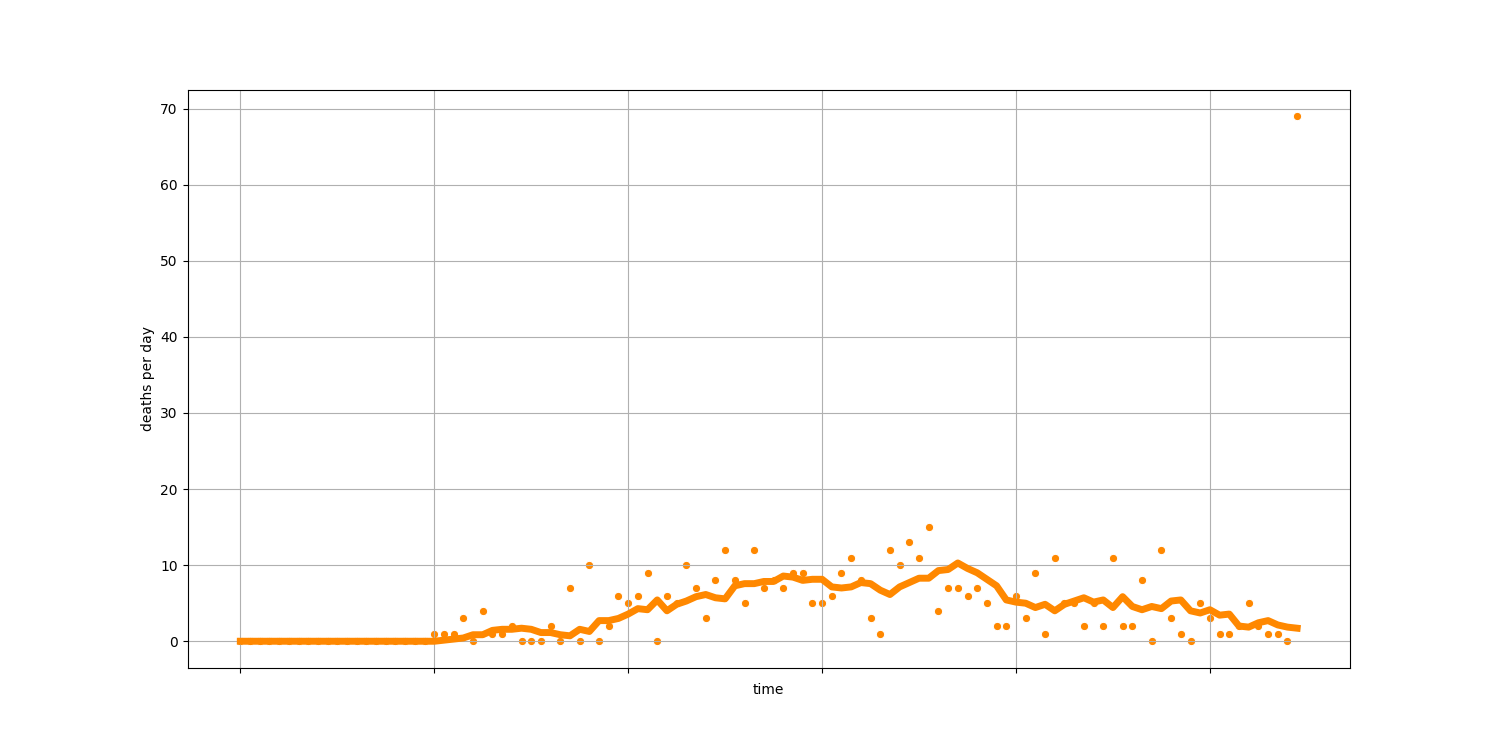
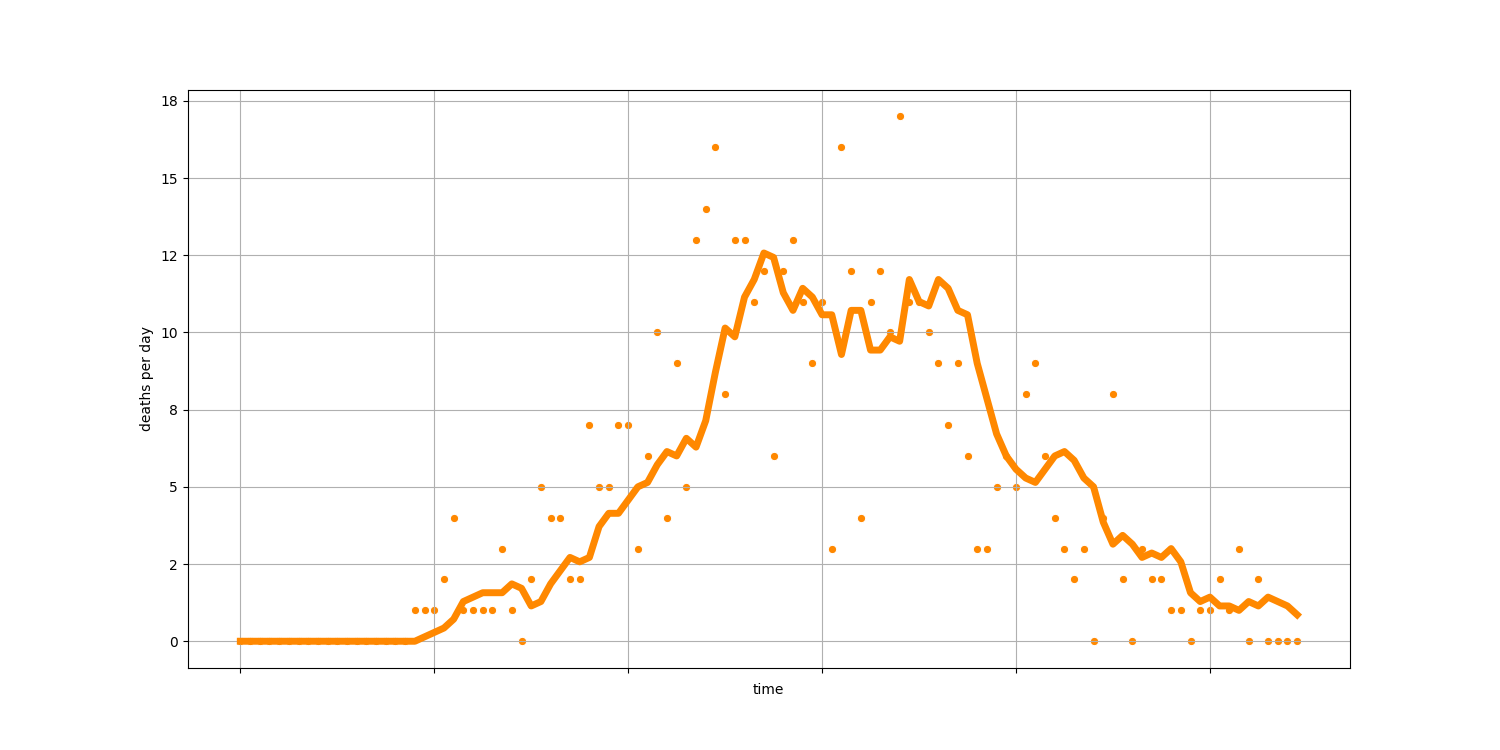
regular update

diff --git a/docs/table.html b/docs/table.html
@@ -93,7 +93,7 @@
     <script type="text/javascript">
       window.addEventListener('DOMContentLoaded', () => {
 
-        const data = [{'state': 'Alabama', 'avg_cases_per_day': '122', 'avg_deaths_per_day': '2', 'avg_positive_test_rate': '8.75%'}, {'state': 'Alaska', 'avg_cases_per_day': '19', 'avg_deaths_per_day': '0', 'avg_positive_test_rate': '0.87%'}, {'state': 'American Samoa', 'avg_cases_per_day': '0', 'avg_deaths_per_day': '0', 'avg_positive_test_rate': '0.0%'}, {'state': 'Arizona', 'avg_cases_per_day': '351', 'avg_deaths_per_day': '3', 'avg_positive_test_rate': '11.86%'}, {'state': 'Arkansas', 'avg_cases_per_day': '150', 'avg_deaths_per_day': '2', 'avg_positive_test_rate': '6.24%'}, {'state': 'California', 'avg_cases_per_day': '96', 'avg_deaths_per_day': '2', 'avg_positive_test_rate': '5.23%'}, {'state': 'Colorado', 'avg_cases_per_day': '35', 'avg_deaths_per_day': '1', 'avg_positive_test_rate': '11.2%'}, {'state': 'Connecticut', 'avg_cases_per_day': '22', 'avg_deaths_per_day': '2', 'avg_positive_test_rate': '11.98%'}, {'state': 'Delaware', 'avg_cases_per_day': '70', 'avg_deaths_per_day': '2', 'avg_positive_test_rate': '11.69%'}, {'state': 'District of Columbia', 'avg_cases_per_day': '52', 'avg_deaths_per_day': '4', 'avg_positive_test_rate': '13.36%'}, {'state': 'Florida', 'avg_cases_per_day': '152', 'avg_deaths_per_day': '2', 'avg_positive_test_rate': '5.84%'}, {'state': 'Georgia', 'avg_cases_per_day': '101', 'avg_deaths_per_day': '2', 'avg_positive_test_rate': '9.25%'}, {'state': 'Guam', 'avg_cases_per_day': '34', 'avg_deaths_per_day': '0', 'avg_positive_test_rate': '2.11%'}, {'state': 'Hawaii', 'avg_cases_per_day': '9', 'avg_deaths_per_day': '0', 'avg_positive_test_rate': '1.17%'}, {'state': 'Idaho', 'avg_cases_per_day': '48', 'avg_deaths_per_day': '0', 'avg_positive_test_rate': '5.39%'}, {'state': 'Illinois', 'avg_cases_per_day': '49', 'avg_deaths_per_day': '4', 'avg_positive_test_rate': '10.43%'}, {'state': 'Indiana', 'avg_cases_per_day': '47', 'avg_deaths_per_day': '3', 'avg_positive_test_rate': '10.66%'}, {'state': 'Iowa', 'avg_cases_per_day': '90', 'avg_deaths_per_day': '1', 'avg_positive_test_rate': '10.26%'}, {'state': 'Kansas', 'avg_cases_per_day': '51', 'avg_deaths_per_day': '1', 'avg_positive_test_rate': '8.19%'}, {'state': 'Kentucky', 'avg_cases_per_day': '38', 'avg_deaths_per_day': '1', 'avg_positive_test_rate': '4.32%'}, {'state': 'Louisiana', 'avg_cases_per_day': '94', 'avg_deaths_per_day': '3', 'avg_positive_test_rate': '8.49%'}, {'state': 'Maine', 'avg_cases_per_day': '17', 'avg_deaths_per_day': '0', 'avg_positive_test_rate': '3.77%'}, {'state': 'Maryland', 'avg_cases_per_day': '61', 'avg_deaths_per_day': '3', 'avg_positive_test_rate': '14.01%'}, {'state': 'Massachusetts', 'avg_cases_per_day': '31', 'avg_deaths_per_day': '5', 'avg_positive_test_rate': '14.18%'}, {'state': 'Michigan', 'avg_cases_per_day': '27', 'avg_deaths_per_day': '1', 'avg_positive_test_rate': '7.66%'}, {'state': 'Minnesota', 'avg_cases_per_day': '64', 'avg_deaths_per_day': '2', 'avg_positive_test_rate': '6.77%'}, {'state': 'Mississippi', 'avg_cases_per_day': '119', 'avg_deaths_per_day': '4', 'avg_positive_test_rate': '8.6%'}, {'state': 'Missouri', 'avg_cases_per_day': '45', 'avg_deaths_per_day': '2', 'avg_positive_test_rate': '5.71%'}, {'state': 'Montana', 'avg_cases_per_day': '18', 'avg_deaths_per_day': '0', 'avg_positive_test_rate': '0.99%'}, {'state': 'Nebraska', 'avg_cases_per_day': '80', 'avg_deaths_per_day': '2', 'avg_positive_test_rate': '11.74%'}, {'state': 'Nevada', 'avg_cases_per_day': '105', 'avg_deaths_per_day': '0', 'avg_positive_test_rate': '5.35%'}, {'state': 'New Hampshire', 'avg_cases_per_day': '21', 'avg_deaths_per_day': '2', 'avg_positive_test_rate': '5.26%'}, {'state': 'New Jersey', 'avg_cases_per_day': '37', 'avg_deaths_per_day': '4', 'avg_positive_test_rate': '14.09%'}, {'state': 'New Mexico', 'avg_cases_per_day': '57', 'avg_deaths_per_day': '2', 'avg_positive_test_rate': '3.63%'}, {'state': 'New York', 'avg_cases_per_day': '33', 'avg_deaths_per_day': '1', 'avg_positive_test_rate': '11.9%'}, {'state': 'North Carolina', 'avg_cases_per_day': '116', 'avg_deaths_per_day': '1', 'avg_positive_test_rate': '7.03%'}, {'state': 'North Dakota', 'avg_cases_per_day': '40', 'avg_deaths_per_day': '1', 'avg_positive_test_rate': '3.48%'}, {'state': 'Northern Mariana Islands', 'avg_cases_per_day': '0', 'avg_deaths_per_day': '0', 'avg_positive_test_rate': '0.37%'}, {'state': 'Ohio', 'avg_cases_per_day': '48', 'avg_deaths_per_day': '2', 'avg_positive_test_rate': '7.12%'}, {'state': 'Oklahoma', 'avg_cases_per_day': '84', 'avg_deaths_per_day': '0', 'avg_positive_test_rate': '3.53%'}, {'state': 'Oregon', 'avg_cases_per_day': '49', 'avg_deaths_per_day': '1', 'avg_positive_test_rate': '3.41%'}, {'state': 'Pennsylvania', 'avg_cases_per_day': '34', 'avg_deaths_per_day': '2', 'avg_positive_test_rate': '12.72%'}, {'state': 'Puerto Rico', 'avg_cases_per_day': '30', 'avg_deaths_per_day': '0', 'avg_positive_test_rate': '100.0%'}, {'state': 'Rhode Island', 'avg_cases_per_day': '49', 'avg_deaths_per_day': '7', 'avg_positive_test_rate': '7.69%'}, {'state': 'South Carolina', 'avg_cases_per_day': '175', 'avg_deaths_per_day': '2', 'avg_positive_test_rate': '7.88%'}, {'state': 'South Dakota', 'avg_cases_per_day': '64', 'avg_deaths_per_day': '1', 'avg_positive_test_rate': '8.7%'}, {'state': 'Tennessee', 'avg_cases_per_day': '92', 'avg_deaths_per_day': '1', 'avg_positive_test_rate': '5.06%'}, {'state': 'Texas', 'avg_cases_per_day': '127', 'avg_deaths_per_day': '1', 'avg_positive_test_rate': '7.2%'}, {'state': 'U.S. Virgin Islands', 'avg_cases_per_day': '4', 'avg_deaths_per_day': '0', 'avg_positive_test_rate': '2.97%'}, {'state': 'Utah', 'avg_cases_per_day': '147', 'avg_deaths_per_day': '1', 'avg_positive_test_rate': '5.71%'}, {'state': 'Vermont', 'avg_cases_per_day': '8', 'avg_deaths_per_day': '0', 'avg_positive_test_rate': '2.05%'}, {'state': 'Virginia', 'avg_cases_per_day': '60', 'avg_deaths_per_day': '1', 'avg_positive_test_rate': '10.98%'}, {'state': 'Washington', 'avg_cases_per_day': '22', 'avg_deaths_per_day': '1', 'avg_positive_test_rate': '6.07%'}, {'state': 'West Virginia', 'avg_cases_per_day': '20', 'avg_deaths_per_day': '0', 'avg_positive_test_rate': '1.68%'}, {'state': 'Wisconsin', 'avg_cases_per_day': '52', 'avg_deaths_per_day': '1', 'avg_positive_test_rate': '5.18%'}, {'state': 'Wyoming', 'avg_cases_per_day': '42', 'avg_deaths_per_day': '0', 'avg_positive_test_rate': '3.7%'}];
+        const data = [{'state': 'Alabama', 'avg_cases_per_day': '122', 'avg_deaths_per_day': '2', 'avg_positive_test_rate': '8.75%'}, {'state': 'Alaska', 'avg_cases_per_day': '19', 'avg_deaths_per_day': '0', 'avg_positive_test_rate': '0.87%'}, {'state': 'American Samoa', 'avg_cases_per_day': '0', 'avg_deaths_per_day': '0', 'avg_positive_test_rate': '0.0%'}, {'state': 'Arizona', 'avg_cases_per_day': '351', 'avg_deaths_per_day': '3', 'avg_positive_test_rate': '11.86%'}, {'state': 'Arkansas', 'avg_cases_per_day': '150', 'avg_deaths_per_day': '2', 'avg_positive_test_rate': '6.24%'}, {'state': 'California', 'avg_cases_per_day': '96', 'avg_deaths_per_day': '2', 'avg_positive_test_rate': '5.23%'}, {'state': 'Colorado', 'avg_cases_per_day': '35', 'avg_deaths_per_day': '1', 'avg_positive_test_rate': '11.2%'}, {'state': 'Connecticut', 'avg_cases_per_day': '22', 'avg_deaths_per_day': '2', 'avg_positive_test_rate': '11.98%'}, {'state': 'Delaware', 'avg_cases_per_day': '70', 'avg_deaths_per_day': '1', 'avg_positive_test_rate': '11.69%'}, {'state': 'District of Columbia', 'avg_cases_per_day': '52', 'avg_deaths_per_day': '4', 'avg_positive_test_rate': '13.36%'}, {'state': 'Florida', 'avg_cases_per_day': '152', 'avg_deaths_per_day': '2', 'avg_positive_test_rate': '5.84%'}, {'state': 'Georgia', 'avg_cases_per_day': '101', 'avg_deaths_per_day': '2', 'avg_positive_test_rate': '9.25%'}, {'state': 'Guam', 'avg_cases_per_day': '34', 'avg_deaths_per_day': '0', 'avg_positive_test_rate': '2.11%'}, {'state': 'Hawaii', 'avg_cases_per_day': '9', 'avg_deaths_per_day': '0', 'avg_positive_test_rate': '1.17%'}, {'state': 'Idaho', 'avg_cases_per_day': '48', 'avg_deaths_per_day': '0', 'avg_positive_test_rate': '5.39%'}, {'state': 'Illinois', 'avg_cases_per_day': '49', 'avg_deaths_per_day': '4', 'avg_positive_test_rate': '10.43%'}, {'state': 'Indiana', 'avg_cases_per_day': '47', 'avg_deaths_per_day': '3', 'avg_positive_test_rate': '10.66%'}, {'state': 'Iowa', 'avg_cases_per_day': '90', 'avg_deaths_per_day': '1', 'avg_positive_test_rate': '10.26%'}, {'state': 'Kansas', 'avg_cases_per_day': '51', 'avg_deaths_per_day': '1', 'avg_positive_test_rate': '8.19%'}, {'state': 'Kentucky', 'avg_cases_per_day': '38', 'avg_deaths_per_day': '1', 'avg_positive_test_rate': '4.32%'}, {'state': 'Louisiana', 'avg_cases_per_day': '94', 'avg_deaths_per_day': '3', 'avg_positive_test_rate': '8.49%'}, {'state': 'Maine', 'avg_cases_per_day': '17', 'avg_deaths_per_day': '0', 'avg_positive_test_rate': '3.77%'}, {'state': 'Maryland', 'avg_cases_per_day': '61', 'avg_deaths_per_day': '3', 'avg_positive_test_rate': '14.01%'}, {'state': 'Massachusetts', 'avg_cases_per_day': '31', 'avg_deaths_per_day': '5', 'avg_positive_test_rate': '14.18%'}, {'state': 'Michigan', 'avg_cases_per_day': '27', 'avg_deaths_per_day': '1', 'avg_positive_test_rate': '7.66%'}, {'state': 'Minnesota', 'avg_cases_per_day': '64', 'avg_deaths_per_day': '2', 'avg_positive_test_rate': '6.77%'}, {'state': 'Mississippi', 'avg_cases_per_day': '119', 'avg_deaths_per_day': '4', 'avg_positive_test_rate': '8.6%'}, {'state': 'Missouri', 'avg_cases_per_day': '45', 'avg_deaths_per_day': '2', 'avg_positive_test_rate': '5.71%'}, {'state': 'Montana', 'avg_cases_per_day': '18', 'avg_deaths_per_day': '0', 'avg_positive_test_rate': '0.99%'}, {'state': 'Nebraska', 'avg_cases_per_day': '80', 'avg_deaths_per_day': '2', 'avg_positive_test_rate': '11.74%'}, {'state': 'Nevada', 'avg_cases_per_day': '105', 'avg_deaths_per_day': '0', 'avg_positive_test_rate': '5.35%'}, {'state': 'New Hampshire', 'avg_cases_per_day': '21', 'avg_deaths_per_day': '2', 'avg_positive_test_rate': '5.26%'}, {'state': 'New Jersey', 'avg_cases_per_day': '37', 'avg_deaths_per_day': '4', 'avg_positive_test_rate': '14.09%'}, {'state': 'New Mexico', 'avg_cases_per_day': '57', 'avg_deaths_per_day': '2', 'avg_positive_test_rate': '3.63%'}, {'state': 'New York', 'avg_cases_per_day': '33', 'avg_deaths_per_day': '1', 'avg_positive_test_rate': '11.9%'}, {'state': 'North Carolina', 'avg_cases_per_day': '116', 'avg_deaths_per_day': '1', 'avg_positive_test_rate': '7.03%'}, {'state': 'North Dakota', 'avg_cases_per_day': '40', 'avg_deaths_per_day': '1', 'avg_positive_test_rate': '3.48%'}, {'state': 'Northern Mariana Islands', 'avg_cases_per_day': '0', 'avg_deaths_per_day': '0', 'avg_positive_test_rate': '0.37%'}, {'state': 'Ohio', 'avg_cases_per_day': '48', 'avg_deaths_per_day': '2', 'avg_positive_test_rate': '7.12%'}, {'state': 'Oklahoma', 'avg_cases_per_day': '84', 'avg_deaths_per_day': '0', 'avg_positive_test_rate': '3.53%'}, {'state': 'Oregon', 'avg_cases_per_day': '49', 'avg_deaths_per_day': '1', 'avg_positive_test_rate': '3.41%'}, {'state': 'Pennsylvania', 'avg_cases_per_day': '34', 'avg_deaths_per_day': '2', 'avg_positive_test_rate': '12.72%'}, {'state': 'Puerto Rico', 'avg_cases_per_day': '30', 'avg_deaths_per_day': '0', 'avg_positive_test_rate': '100.0%'}, {'state': 'Rhode Island', 'avg_cases_per_day': '49', 'avg_deaths_per_day': '7', 'avg_positive_test_rate': '7.69%'}, {'state': 'South Carolina', 'avg_cases_per_day': '175', 'avg_deaths_per_day': '2', 'avg_positive_test_rate': '7.88%'}, {'state': 'South Dakota', 'avg_cases_per_day': '64', 'avg_deaths_per_day': '1', 'avg_positive_test_rate': '8.7%'}, {'state': 'Tennessee', 'avg_cases_per_day': '92', 'avg_deaths_per_day': '1', 'avg_positive_test_rate': '5.06%'}, {'state': 'Texas', 'avg_cases_per_day': '127', 'avg_deaths_per_day': '1', 'avg_positive_test_rate': '7.2%'}, {'state': 'U.S. Virgin Islands', 'avg_cases_per_day': '4', 'avg_deaths_per_day': '0', 'avg_positive_test_rate': '2.97%'}, {'state': 'Utah', 'avg_cases_per_day': '147', 'avg_deaths_per_day': '1', 'avg_positive_test_rate': '5.71%'}, {'state': 'Vermont', 'avg_cases_per_day': '8', 'avg_deaths_per_day': '0', 'avg_positive_test_rate': '2.05%'}, {'state': 'Virginia', 'avg_cases_per_day': '60', 'avg_deaths_per_day': '1', 'avg_positive_test_rate': '10.98%'}, {'state': 'Washington', 'avg_cases_per_day': '22', 'avg_deaths_per_day': '1', 'avg_positive_test_rate': '6.07%'}, {'state': 'West Virginia', 'avg_cases_per_day': '20', 'avg_deaths_per_day': '0', 'avg_positive_test_rate': '1.68%'}, {'state': 'Wisconsin', 'avg_cases_per_day': '52', 'avg_deaths_per_day': '1', 'avg_positive_test_rate': '5.18%'}, {'state': 'Wyoming', 'avg_cases_per_day': '42', 'avg_deaths_per_day': '0', 'avg_positive_test_rate': '3.7%'}];
 
         const render = () => {
           const tbody = document.querySelector('tbody');

diff --git a/docs/DE.html b/docs/DE.html
@@ -83,9 +83,9 @@
           </h1>
 
           <p class="font-body-md">
-            There are about <strong>15</strong> new
+            There are about <strong>0</strong> new
             deaths every day. At this rate, about
-            <strong>610</strong> total people
+            <strong>510</strong> total people
             will have died of COVID-19 in 7 days. This chart shows the number of
             deaths each day since the first case was identified. The dots are
             the total number of deaths for each day and the line is the average

diff --git a/docs/index.html b/docs/index.html
@@ -83,7 +83,7 @@
           </h1>
 
           <p class="font-body-md">
-            There are about <strong>524</strong> new
+            There are about <strong>510</strong> new
             deaths every day. At this rate, about
             <strong>120,000</strong> total people
             will have died of COVID-19 in 7 days. This chart shows the number of
